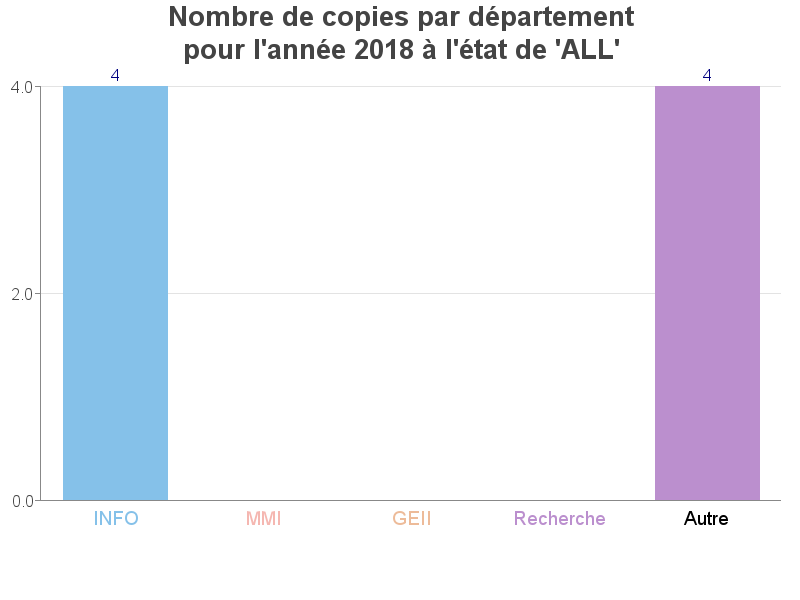
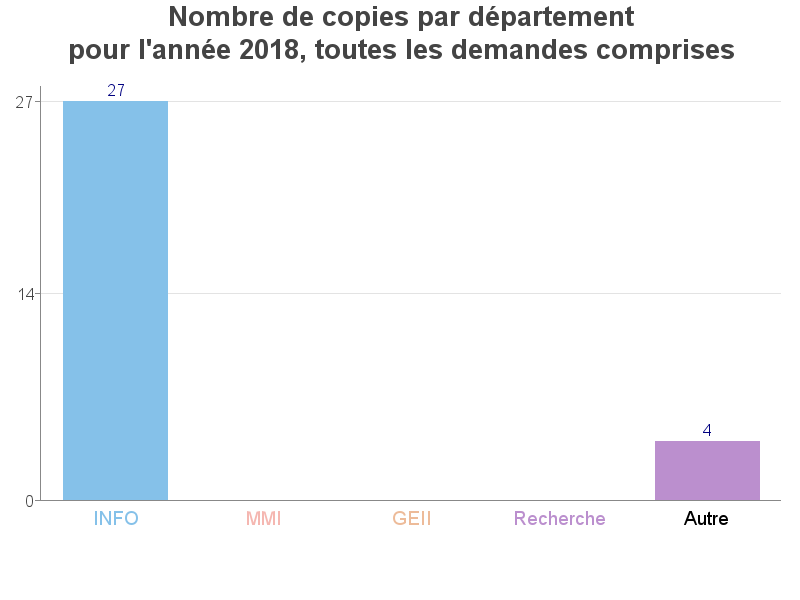
correction bug Stats3

Changed region(s): [[0.0312, 0.06, 0.9688, 0.75], [0.0, 0.48, 0.0625, 0.51]]

diff --git a/src/site/scripts/functions.php b/src/site/scripts/functions.php
@@ -1088,29 +1088,28 @@ A bientot !
 		$bdd = connexion_sql();
 		$ChampsDate = $_POST['champDate'];
 		if($ChampsDate == 'Journalier'){
-			$today = date("d-m-y");
+			$today = date("Y-m-d");
 			if($etat === "ALL"){
-				$sql = "SELECT sum(requests.num_copy) FROM requests, real_user WHERE requests.user_email=real_user.user_email AND `department`='".$department."' AND `creation_date`='".$today."'";
+				$sql = "SELECT sum(requests.num_copy) as Total FROM requests, real_user WHERE requests.user_email=real_user.user_email AND `department`='".$department."' AND `creation_date` LIKE '".$today."%'";
 			}	
 			else {
-				$sql = "SELECT  sum(requests.num_copy) as Total  FROM requests, real_user WHERE requests.user_email=real_user.user_email AND `department`='".$department."' AND `etat`='".$etat."' AND `creation_date`='".$today."'";
+				$sql = "SELECT  sum(requests.num_copy) as Total  FROM requests, real_user WHERE requests.user_email=real_user.user_email AND `department`='".$department."' AND `etat`='".$etat."' AND `creation_date` LIKE '".$today."%'";
 			}
 		}if($ChampsDate == 'Mensuelle'){
-			$todayMois = date("m-y");
-			
+			$todayMois = date("Y-m");
 			if($etat === "ALL"){
-				$sql = "SELECT  sum(requests.num_copy) as Total  FROM requests, real_user WHERE requests.user_email=real_user.user_email AND `department`='".$department."' AND `creation_date` BETWEEN '20".$todayMois."-01' AND '20".$todayMois."-31'";
+				$sql = "SELECT  sum(requests.num_copy) as Total  FROM requests, real_user WHERE requests.user_email=real_user.user_email AND `department`='".$department."' AND `creation_date` LIKE '".$todayMois."%'";
 			}
 			else {
-				$sql = "SELECT  sum(requests.num_copy) as Total  FROM requests, real_user WHERE requests.user_email=real_user.user_email AND `department`='".$department."' AND `etat`='".$etat."' AND `creation_date` BETWEEN '20".$todayMois."-01' AND '20".$todayMois."-31'";
+				$sql = "SELECT  sum(requests.num_copy) as Total  FROM requests, real_user WHERE requests.user_email=real_user.user_email AND `department`='".$department."' AND `etat`='".$etat."' AND `creation_date` LIKE '".$todayMois."%'";
 			}
 		}if($ChampsDate == 'Annuelle'){
 			$todayAnnee = date("Y");
 			if($etat === "ALL"){
-				$sql = "SELECT  sum(requests.num_copy) as Total  FROM requests, real_user WHERE requests.user_email=real_user.user_email AND `department`='".$department."' AND `creation_date` BETWEEN '".$todayAnnee."-01-01' AND '20".$todayAnnee."-12-31'";
+				$sql = "SELECT  sum(requests.num_copy) as Total  FROM requests, real_user WHERE requests.user_email=real_user.user_email AND `department`='".$department."' AND `creation_date` LIKE '".$todayAnnee."%'";
 			}
 			else {
-				$sql = "SELECT  sum(requests.num_copy) as Total  FROM requests, real_user WHERE requests.user_email=real_user.user_email AND `department`='".$department."' AND `etat`='".$etat."' AND `creation_date` BETWEEN '".$todayAnnee."-01-01' AND '20".$todayAnnee."-12-31'";
+				$sql = "SELECT  sum(requests.num_copy) as Total  FROM requests, real_user WHERE requests.user_email=real_user.user_email AND `department`='".$department."' AND `etat`='".$etat."' AND `creation_date` LIKE '".$todayAnnee."%'";
 			}
 		}
 		//  REQUETE SQL DE SELECTION

diff --git a/src/site/scripts/grapheStatistique.php b/src/site/scripts/grapheStatistique.php
@@ -48,7 +48,7 @@
 	$ChampsDate = $_POST['champDate'];
 	if($ChampsDate == 'Journalier'){
 		$datefr = $jour[date("w")]." ".date("d")." ".$mois[date("n")]." ".date("Y");
-		if($etat === "All"){
+		if($etat === "ALL"){
 			$soustitre = "pour le ".$datefr.", toutes les demandes comprises";
 		}
 		else {
@@ -57,7 +57,7 @@
 		
 	}if($ChampsDate == 'Mensuelle'){
 		$datefr = $mois[date("n")];
-		if($etat === "All"){
+		if($etat === "ALL"){
 			$soustitre = "pour le mois de ".$datefr.", toutes les demandes comprises";
 		}
 		else{
@@ -65,7 +65,7 @@
 		}
 	}if($ChampsDate == 'Annuelle'){
 		$datefr = date("Y");
-		if($etat === "All"){
+		if($etat === "ALL"){
 			$soustitre = "pour l'année ".$datefr.", toutes les demandes comprises";
 		}
 		else {
